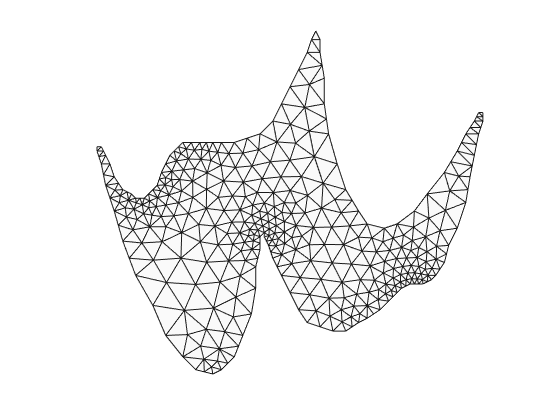
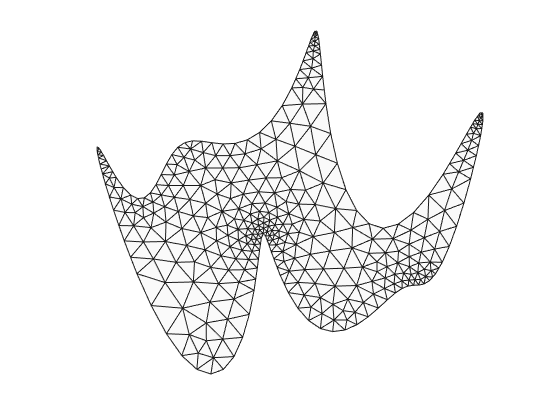
improve MeshWithoutLosingBoundaryPoints

Changed region(s): [[0.1518, 0.0619, 0.8804, 0.8976]]

diff --git a/others/MeshWithoutLosingBoundaryPoints/demo.html b/others/MeshWithoutLosingBoundaryPoints/demo.html
@@ -6,7 +6,7 @@
    <!--
 This HTML was auto-generated from MATLAB code.
 To make changes, update the MATLAB code and republish this document.
-      --><title>Mesh without losing boundary points</title><meta name="generator" content="MATLAB 9.11"><link rel="schema.DC" href="http://purl.org/dc/elements/1.1/"><meta name="DC.date" content="2025-04-05"><meta name="DC.source" content="MeshWithoutLosingBoundaryPoints.m"><style type="text/css">
+      --><title>Mesh without losing boundary points</title><meta name="generator" content="MATLAB 9.11"><link rel="schema.DC" href="http://purl.org/dc/elements/1.1/"><meta name="DC.date" content="2025-04-06"><meta name="DC.source" content="MeshWithoutLosingBoundaryPoints.m"><style type="text/css">
 html,body,div,span,applet,object,iframe,h1,h2,h3,h4,h5,h6,p,blockquote,pre,a,abbr,acronym,address,big,cite,code,del,dfn,em,font,img,ins,kbd,q,s,samp,small,strike,strong,tt,var,b,u,i,center,dl,dt,dd,ol,ul,li,fieldset,form,label,legend,table,caption,tbody,tfoot,thead,tr,th,td{margin:0;padding:0;border:0;outline:0;font-size:100%;vertical-align:baseline;background:transparent}body{line-height:1}ol,ul{list-style:none}blockquote,q{quotes:none}blockquote:before,blockquote:after,q:before,q:after{content:'';content:none}:focus{outine:0}ins{text-decoration:none}del{text-decoration:line-through}table{border-collapse:collapse;border-spacing:0}
 
 html { min-height:100%; margin-bottom:1px; }
@@ -81,6 +81,11 @@ Y= 1*sin(t)+ .5*cos(4*t)+ .4*sin(6*t);
 Y= Y/(max(Y)-min(Y)) *.8;
 Y= Y-min(Y)+.1;
 
+<span class="comment">% Set scale to avoid numeric error. We will scale back later.</span>
+scale_factor = 100;
+X = X*scale_factor;
+Y = Y*scale_factor;
+
 ps = polyshape(X,Y);
 
 plot(ps);
@@ -90,19 +95,15 @@ bounds = polyshape2bound(psCell);
 
 <span class="comment">% plot boundaries and show all vertices</span>
 plotBounds(bounds,false,<span class="string">'ko-'</span>)
-</pre><img vspace="5" hspace="5" src="MeshWithoutLosingBoundaryPoints_02.png" alt=""> <p>Generate mesh</p><pre class="codeinput">hmax = 2;
+</pre><img vspace="5" hspace="5" src="MeshWithoutLosingBoundaryPoints_02.png" alt=""> <p>Generate mesh</p><pre class="codeinput">hmax = 500;
 grad_limit = 0.25;
 opt = [];
 opt.disp = inf;     <span class="comment">% silence verbosity</span>
 
 [vert,tria,tnum,vert2,tria2] = bounds2mesh( bounds, hmax, grad_limit, opt );
-plotMeshes(vert,tria,tnum);
-</pre><pre class="codeoutput">Warning: Constraint with the same start and end indices -
-constraint ignored. Duplicate data points have been detected
-and removed - corresponding values have been averaged. 
-Warning: Constraint with the same start and end indices -
-constraint ignored. Duplicate data points have been detected
-and removed - corresponding values have been averaged. 
+</pre><p>scale back</p><pre class="codeinput">vert = vert / scale_factor;
+vert2 = vert2 / scale_factor;
+</pre><p>plot mesh</p><pre class="codeinput">plotMeshes(vert,tria,tnum);
 </pre><img vspace="5" hspace="5" src="MeshWithoutLosingBoundaryPoints_03.png" alt=""> <p>Create matlab pde model object</p><pre class="codeinput"><span class="comment">% linear model</span>
 model_linear = createpde();
 geometryFromMesh( model_linear, vert', tria', tnum' );
@@ -149,6 +150,11 @@ Y= 1*sin(t)+ .5*cos(4*t)+ .4*sin(6*t);
 Y= Y/(max(Y)-min(Y)) *.8;
 Y= Y-min(Y)+.1;
 
+% Set scale to avoid numeric error. We will scale back later.
+scale_factor = 100;
+X = X*scale_factor;
+Y = Y*scale_factor;
+
 ps = polyshape(X,Y);
 
 plot(ps); 
@@ -166,12 +172,22 @@ plotBounds(bounds,false,'ko-')
 %% 
 % Generate mesh
 
-hmax = 2; 
+hmax = 500; 
 grad_limit = 0.25;
 opt = [];
 opt.disp = inf;     % silence verbosity
 
 [vert,tria,tnum,vert2,tria2] = bounds2mesh( bounds, hmax, grad_limit, opt );
+
+%%
+% scale back
+
+vert = vert / scale_factor;
+vert2 = vert2 / scale_factor;
+
+%%
+% plot mesh
+
 plotMeshes(vert,tria,tnum);
 
 %%
